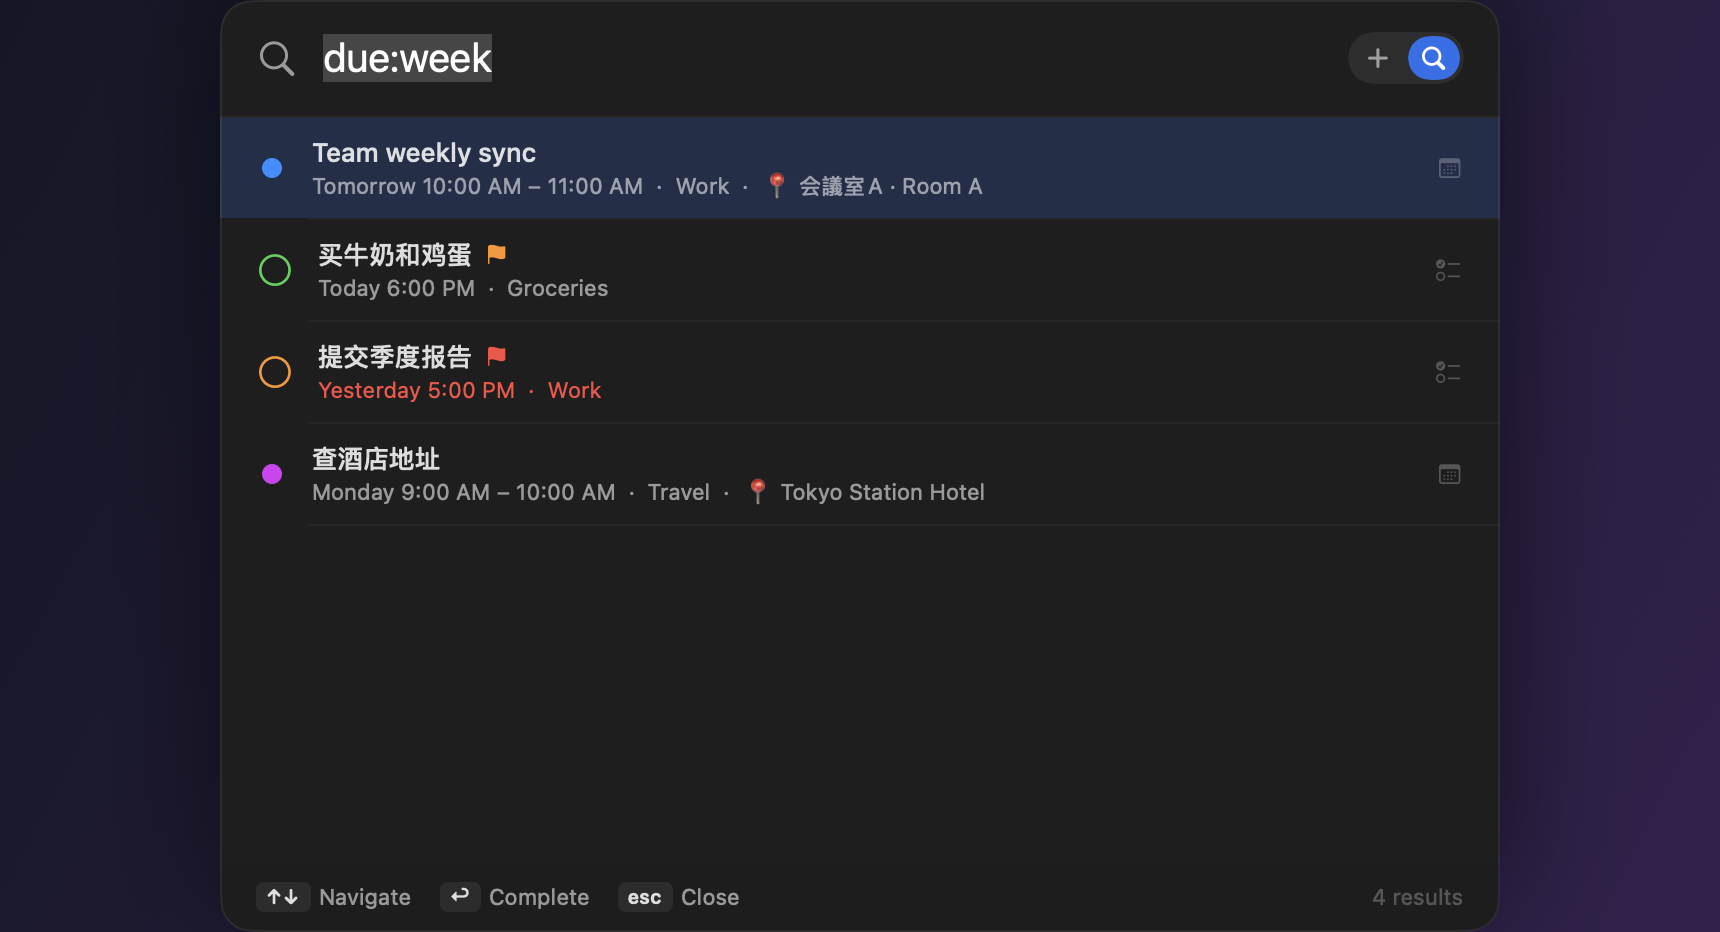
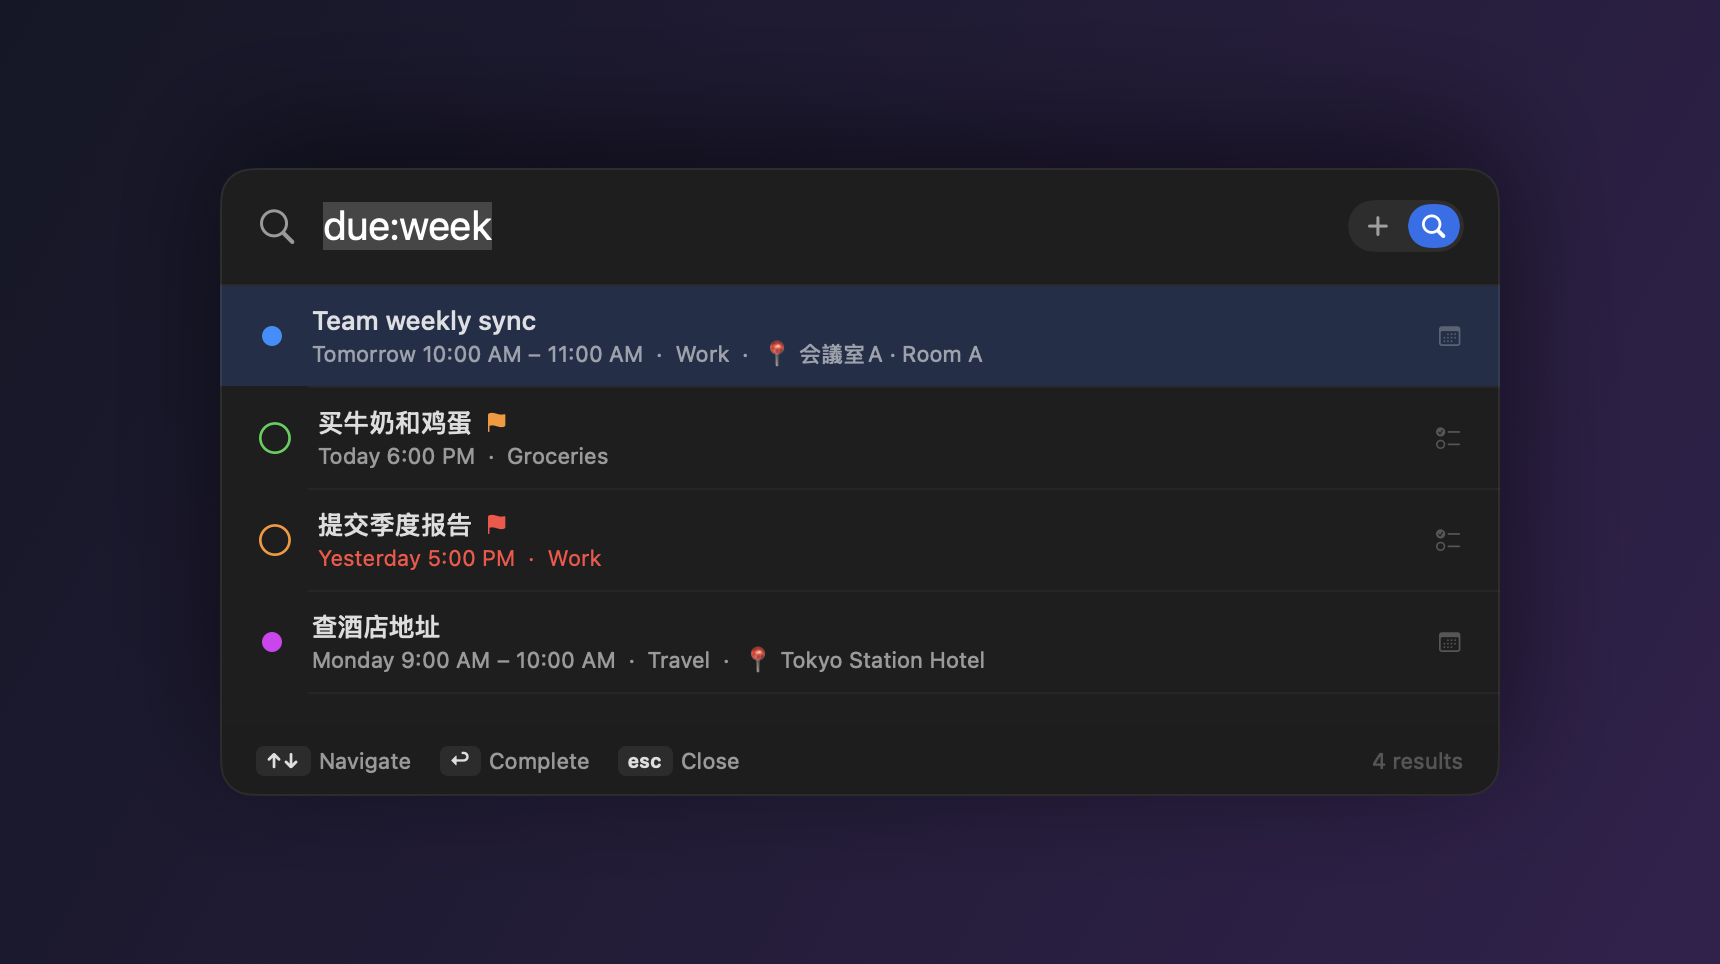
Polish: content-sized search results + accessibility labels
- Search results area sizes to its content instead of reserving a fixed 380px.
- Accessibility labels + tooltips on icon-only controls (mode toggle, complete, delete).
- Refresh marketing screenshots.

diff --git a/Sources/QuickAdd/SearchView.swift b/Sources/QuickAdd/SearchView.swift
@@ -63,7 +63,7 @@ struct SearchView: View {
                         }
                     }
                 }
-                .frame(maxHeight: 380)
+                .frame(height: min(CGFloat(model.results.count) * 54 + 4, 380))
                 .onChange(of: model.selectedIndex) { _, idx in
                     withAnimation(.easeOut(duration: 0.12)) { proxy.scrollTo(idx, anchor: .center) }
                 }
@@ -146,6 +146,8 @@ struct SearchRow: View {
                 }
                 .buttonStyle(.plain)
                 .foregroundStyle(.secondary)
+                .accessibilityLabel("Delete")
+                .help("Delete")
             }
             Image(systemName: hit.kind == .event ? "calendar" : "checklist")
                 .font(.system(size: 11))
@@ -177,6 +179,7 @@ struct SearchRow: View {
                     .foregroundStyle(hit.isCompleted ? Color.accentColor : Color(hit.calendarColor))
             }
             .buttonStyle(.plain)
+            .accessibilityLabel(hit.isCompleted ? "Mark incomplete" : "Mark complete")
         } else {
             Circle().fill(Color(hit.calendarColor)).frame(width: 10, height: 10).padding(.horizontal, 3)
         }

diff --git a/Sources/QuickAdd/AddView.swift b/Sources/QuickAdd/AddView.swift
@@ -182,5 +182,7 @@ struct ModeToggle: View {
                 .foregroundStyle(mode == value ? .white : .secondary)
         }
         .buttonStyle(.plain)
+        .accessibilityLabel(value == .add ? "Quick add" : "Search")
+        .help(value == .add ? "Quick add (⌘N)" : "Search (⌘F)")
     }
 }